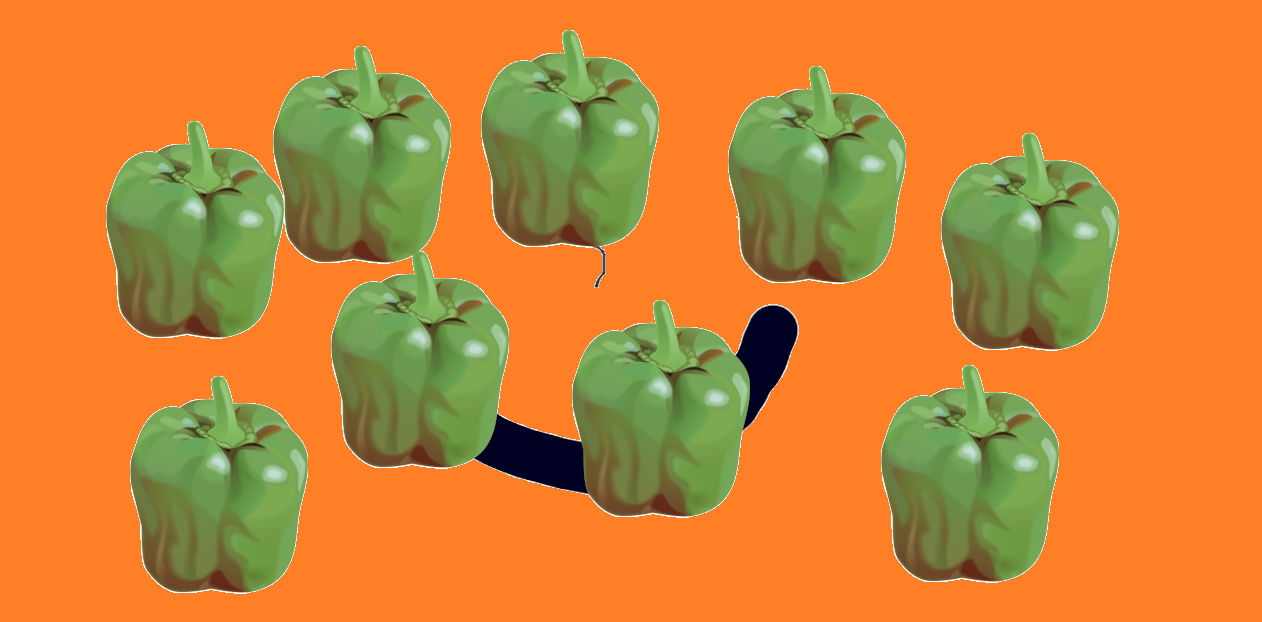
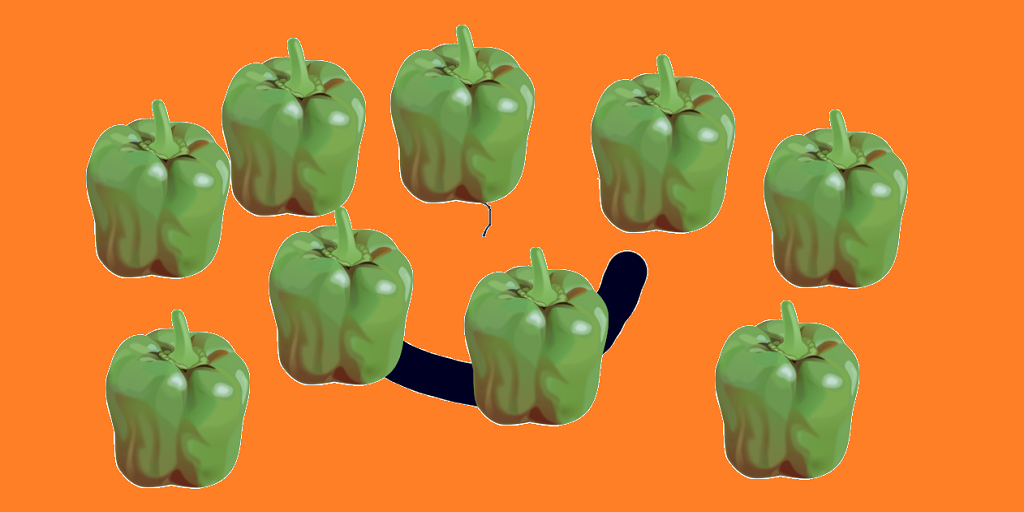
adding background, changing image's size to power of 2

diff --git a/scripts/webgl.js b/scripts/webgl.js
@@ -272,7 +272,10 @@ class ImageLoader{
 }
 class Texture{
     offset = new Vector2(0,0)
-    scale = new Vector2(1,1)
+    scale = new Vector2(1,1) // skaluje teksture podczas renderowanie
+
+    size = new Vector2(1, 1) // rozmiar obrazu tekstury
+
     constructor(){
         var gl = Renderer.gl
         this.id = gl.createTexture()
@@ -289,14 +292,16 @@ class Texture{
         Renderer.gl.texParameteri(Renderer.gl.TEXTURE_2D, Renderer.gl.TEXTURE_MAG_FILTER, value)
     }
     uploadImage(img){
-        this.Bind
+        this.Bind()
+        this.size = new Vector2(img.width, img.height)
         Renderer.gl.texImage2D(Renderer.gl.TEXTURE_2D,
             0, Renderer.gl.RGBA, Renderer.gl.RGBA,
             Renderer.gl.UNSIGNED_BYTE,img)
         return this
     }
     uploadPixels(w, h, pixels){
-        this.Bind
+        this.Bind()
+        this.size = new Vector2(w, h)
         Renderer.gl.texImage2D(Renderer.gl.TEXTURE_2D,
             0, Renderer.gl.RGBA,w, h, 0, Renderer.gl.RGBA,
             Renderer.gl.UNSIGNED_BYTE, new Uint8Array(pixels))
@@ -310,6 +315,12 @@ class Texture{
         )
         Renderer.gl.bindTexture(Renderer.gl.TEXTURE_2D, this.id)
     }
+    uploadDefaultPixels(){
+        this.uploadPixels(2, 2,
+            [0, 0, 0, 255,  255, 0, 255, 255,
+            255, 0, 255, 255,  0, 0, 0, 255])  
+        return this
+    } 
     static init(){
         this.enums = {
             wrap : {
@@ -323,9 +334,7 @@ class Texture{
             }
         }
         this.defaultTexture = new Texture()
-        this.defaultTexture.uploadPixels(2, 2,
-            [0, 0, 0, 255,  255, 0, 255, 255,
-            255, 0, 255, 255,  0, 0, 0, 255])   
+        this.defaultTexture.uploadDefaultPixels()   
     }
 }
 class Background extends Object2D{
@@ -336,6 +345,13 @@ class Background extends Object2D{
         this.texture.Bind()
         this.texture.setWrap(Texture.enums.wrap.MIRRORED_REPEAT)
         this.size = new Vector2(1, CanvasScreen.asp)
+    }
+    setImage(img){
+        this.texture.uploadImage(img)
+    }
+    align(){
+        this.size = CanvasScreen.getScreenSize()
+        this.texture.scale.x = CanvasScreen.asp * (this.texture.size.y/this.texture.size.x) 
     }
 }
 function initAll(){

diff --git a/scripts/script.js b/scripts/script.js
@@ -18,9 +18,11 @@ a.size = new Vector2(100,50)
 b.size = new Vector2(50,100)
 let dt = 0
 let c = 0
+var background = new Background()
 function frame(){
   dt = new Date().getMilliseconds()
   CanvasScreen.fillWindow()
+  background.align()
   Renderer.clear()
   Renderer.render(Object2D.scene)
   console.log(a.isColliding(b))
@@ -32,6 +34,9 @@ function frame(){
   console.log(dt)
 }
 setInterval(frame,2)
+ImageLoader.loadImage("KamilKonik.png").then((img) => {
+  background.setImage(img)
+})
 document.onkeydown = (e) => {
   switch(e.code){
     case "Space":
@@ -44,5 +49,4 @@ document.onkeydown = (e) => {
       player.velocity   .x = 10
     break
   }
-  
 }
